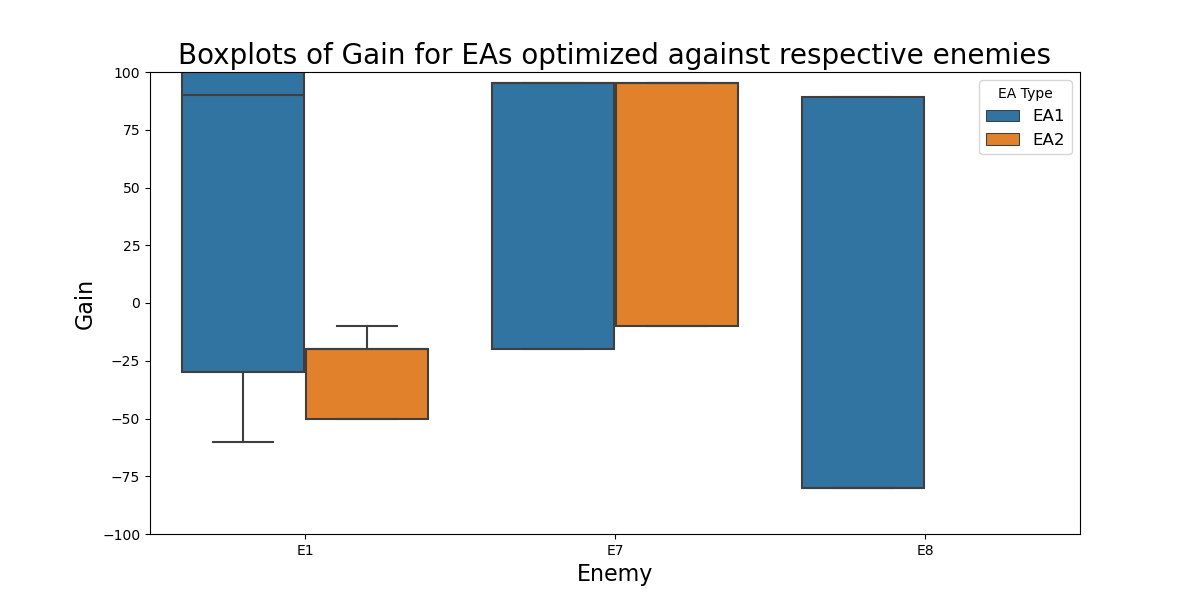
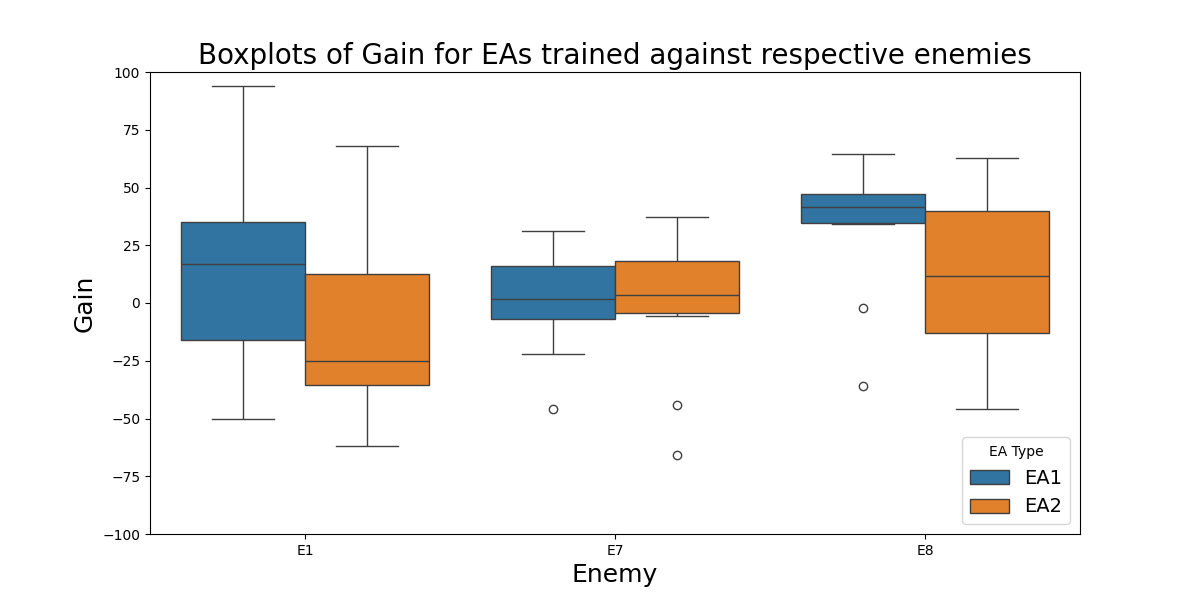
final boxplot with 2 EA's per enemy

diff --git a/visualization/box-plotv2.py b/visualization/box-plotv2.py
@@ -8,7 +8,7 @@ data_dir = 'testing/'
 
 # Step 2: Define the list of CSV file names
 csv_files = ['test_ea1_e1.csv', 'test_ea2_e1.csv', 'test_ea1_e7.csv', 
-             'test_ea2_e7.csv', 'test_ea1_e8.csv'] # 'test_ea2_e8.csv']
+             'test_ea2_e7.csv', 'test_ea1_e8.csv', 'test_ea2_e8.csv']
 
 # Step 3: Create an empty list to store the gains for each file
 gain_data = []
@@ -56,10 +56,10 @@ sns.boxplot(x='Enemy', y='Gain', hue='EA', data=gain_df)
 
 # Step 7: Set the plot attributes
 plt.ylim(-100, 100)
-plt.title('Boxplots of Gain for EAs optimized against respective enemies', fontsize=20)
-plt.xlabel('Enemy', fontsize=16)
-plt.ylabel('Gain', fontsize=16)
-plt.legend(title='EA Type', fontsize=12)
+plt.title('Boxplots of Gain for EAs trained against respective enemies', fontsize=20)
+plt.xlabel('Enemy', fontsize=18)
+plt.ylabel('Gain', fontsize=18)
+plt.legend(title='EA Type', fontsize=14, loc='lower right')
 
 # Step 8: Create the directory to save the plot if it doesn't exist
 save_dir = 'graphs/box-plots/'
